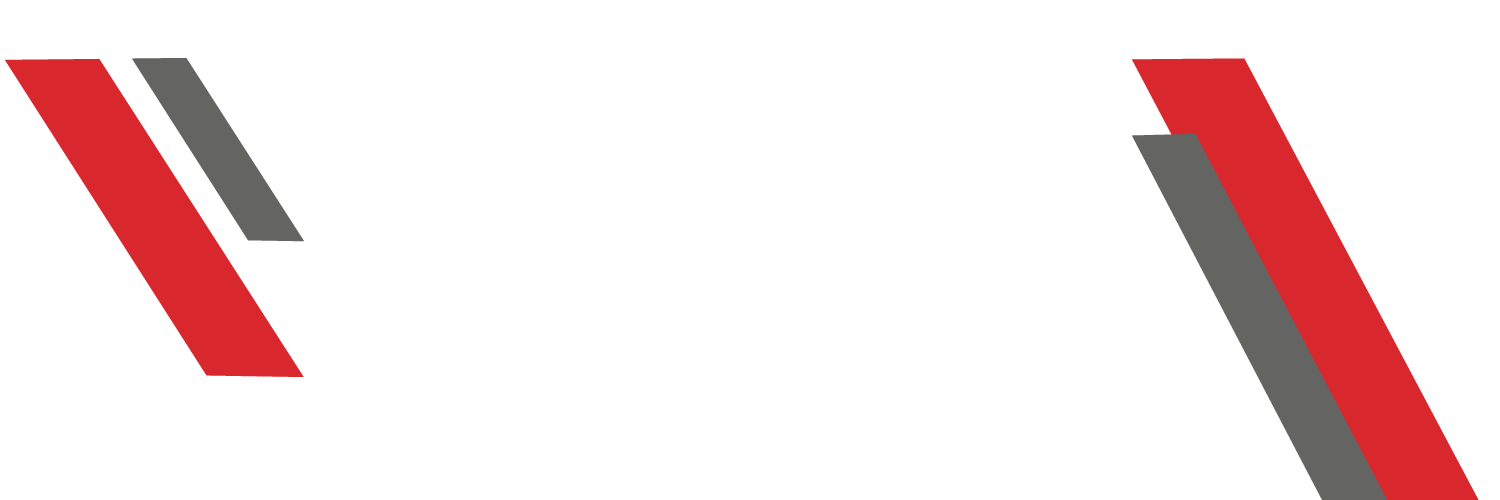
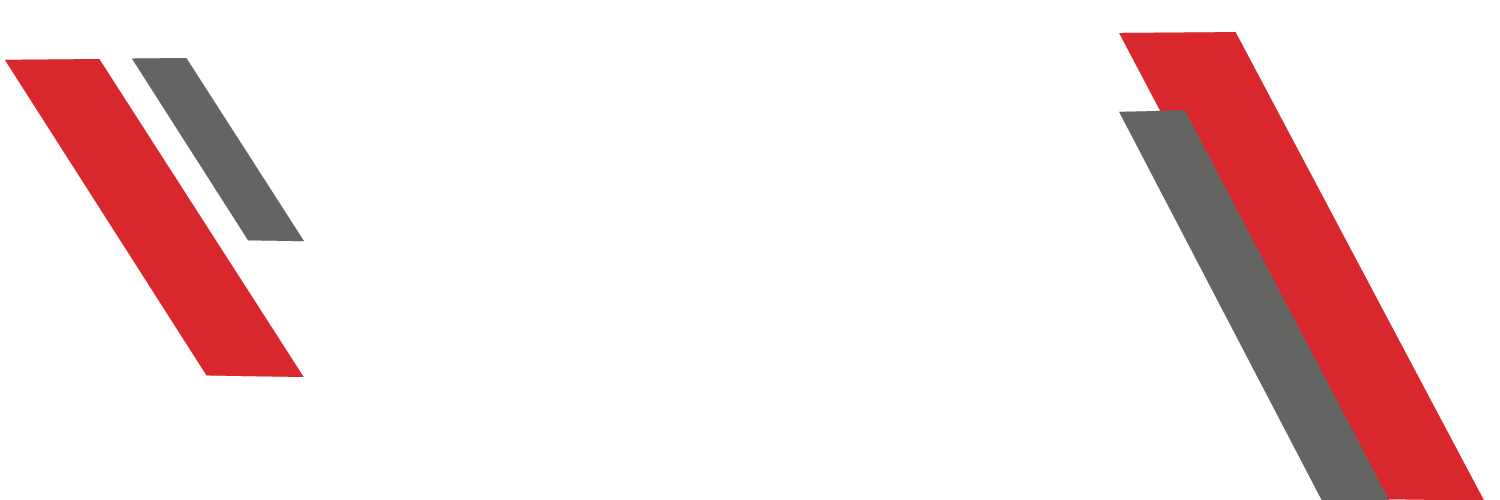
text bg fix pt 3

diff --git a/roswell/css/style.css b/roswell/css/style.css
@@ -329,9 +329,9 @@ a, a:hover, a:active {
     text-transform: uppercase;
     color: #FFF;
     background-color: #000;
-    background-image: url('../img/bg_site_black.png'), url('../img/bg_txt2.png');
-    background-position: top left, right bottom;
-    background-repeat: repeat, no-repeat;
+    background-image: url('../img/bg_txt2.png'), url('../img/bg_site_black.png') ;
+    background-position: center bottom, top left;
+    background-repeat: no-repeat, repeat;
   }
 
   .texto .row {
